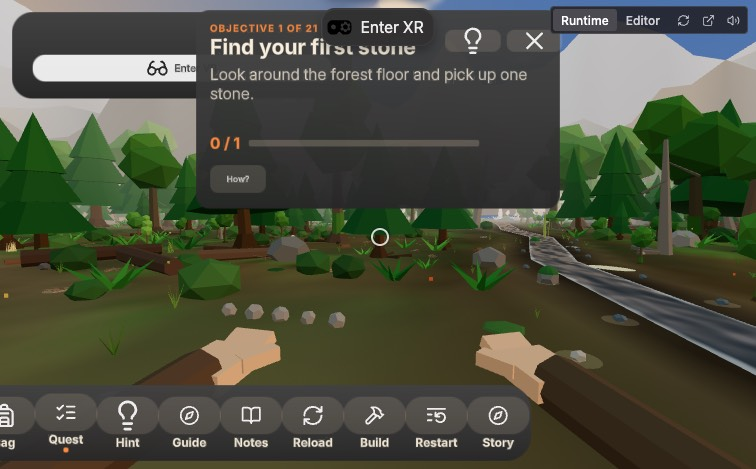
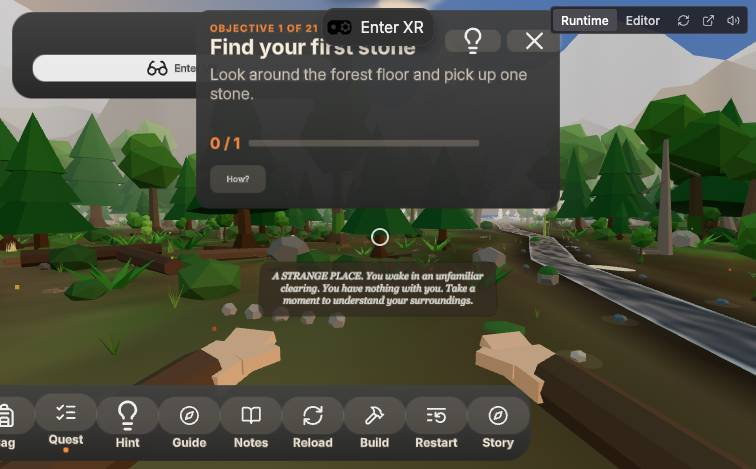
Story fixes: thoughts get their own readable head-following line (VR and desktop), the opening-to-survival hand-off no longer replays the awakening, camp marker ~2 m clear of the camp, mast glint readable by day, the First Fire act eases the clock towards dusk

diff --git a/src/systems/story-system.ts b/src/systems/story-system.ts
@@ -6,7 +6,8 @@
 // or unmutes thoughts (saved). Not used in the opening (it has its own story).
 
 import {
-  AdditiveBlending,
+  NormalBlending,
+  PlaneGeometry,
   BackSide,
   CanvasTexture,
   CylinderGeometry,
@@ -26,6 +27,8 @@ import {
 import { ACTS, CLUES, MAST_TOP, type StoryEvent } from '../game/story.js';
 import { mulberry32 } from '../game/rng.js';
 import { groundHeight } from '../game/world-layout.js';
+import { START_HOUR } from '../game/environment.js';
+import { hasCarry } from '../game/tutorial-mode.js';
 import { getGame, getUi } from './shared.js';
 
 const POLL_SECONDS = 0.25;
@@ -37,12 +40,25 @@ const FADE_SECONDS = 3.5;
 const GUIDANCE_HOLD = 3;
 /** More waiting lines than this and the older ones are dropped. */
 const MAX_WAITING = 4;
+/** How fast the story nudges the clock (hours per second): an hour in under a minute. */
+const CLOCK_RATE = 0.02;
+/** Thought line canvas (px) and distance ahead (m). */
+const LINE_W = 1024;
+const LINE_H = 240;
+const LINE_DIST = 1.1;
 
 export class StorySystem extends createSystem({}, { tutorial: { type: Types.Boolean, default: false } }) {
   private lines: string[] = [];
   private lineTimer = 0;
   private poll = 0;
   private fade: Mesh | null = null;
+  private line: Mesh | null = null;
+  private lineMat: MeshBasicMaterial | null = null;
+  private lineCtx: CanvasRenderingContext2D | null = null;
+  private lineTex: CanvasTexture | null = null;
+  private lineAlpha = 0;
+  private lineYaw = 0;
+  private lineDir = new Vector3();
   private fadeT = -1;
   private campMarker: Group | null = null;
   private glint: Sprite | null = null;
@@ -74,6 +90,7 @@ export class StorySystem extends createSystem({}, { tutorial: { type: Types.Bool
         }
       }),
     );
+    this.buildLine();
     this.buildClues();
     this.buildGlint();
   }
@@ -82,6 +99,8 @@ export class StorySystem extends createSystem({}, { tutorial: { type: Types.Bool
   awaken(): void {
     if (this.off) return;
     const game = getGame(this.world);
+    // Straight from the guided opening: it already told the awakening (TutorialSystem says the morning lines).
+    if (hasCarry()) game.story.markSeen('awake');
     if (game.story.seen.has('awake')) return;
     if (game.time < 5) this.startFade();
     game.story.wake();
@@ -95,9 +114,6 @@ export class StorySystem extends createSystem({}, { tutorial: { type: Types.Bool
       this.lineTimer = 0;
       if (!this.showingThought) return;
       this.showingThought = false;
-      this.speaking = true;
-      game.toast(' ', 'info');
-      this.speaking = false;
       game.log.add('story: thoughts skipped');
       return;
     }
@@ -125,13 +141,101 @@ export class StorySystem extends createSystem({}, { tutorial: { type: Types.Bool
     if (this.lineTimer > 0) this.lineTimer -= delta;
     else if (this.lines.length) {
       this.lineTimer = LINE_GAP;
-      this.speaking = true;
       this.showingThought = true;
-      game.toast(this.lines.shift()!, 'note');
-      this.speaking = false;
+      const text = this.lines.shift()!;
+      this.drawLine(text);
+      game.log.add(`thought: ${text}`);
     }
+    if (this.lineTimer <= 0) this.showingThought = false;
+    this.updateLine(delta);
+    this.updateClock(delta);
     this.updateFade(delta);
     this.updateGlint();
+  }
+
+  // ------------------------------------------------------------ the thought line (its own, always visible)
+
+  /** A small two-line text strip, a little below eye level ~1.3 m ahead; drawn only when the text changes. */
+  private buildLine(): void {
+    const c = document.createElement('canvas');
+    c.width = LINE_W;
+    c.height = LINE_H;
+    this.lineCtx = c.getContext('2d');
+    this.lineTex = new CanvasTexture(c);
+    this.lineMat = new MeshBasicMaterial({ map: this.lineTex, transparent: true, depthTest: false, depthWrite: false, opacity: 0 });
+    this.line = new Mesh(new PlaneGeometry(0.8, (0.8 * LINE_H) / LINE_W), this.lineMat);
+    this.line.renderOrder = 9000;
+    this.line.frustumCulled = false;
+    this.line.visible = false;
+    this.world.createTransformEntity(this.line);
+  }
+
+  private drawLine(text: string): void {
+    const ctx = this.lineCtx;
+    if (!ctx || !this.lineTex) return;
+    const W = LINE_W;
+    const H = LINE_H;
+    ctx.clearRect(0, 0, W, H);
+    ctx.fillStyle = 'rgba(14,11,8,0.8)';
+    ctx.beginPath();
+    ctx.roundRect(6, 6, W - 12, H - 12, 36);
+    ctx.fill();
+    ctx.fillStyle = '#f6ecda';
+    ctx.textAlign = 'center';
+    ctx.textBaseline = 'middle';
+    // Word-wrap to at most three lines, shrinking the type for a long act line.
+    let size = 50;
+    let rows: string[] = [];
+    for (; size >= 30; size -= 4) {
+      ctx.font = `italic ${size}px Georgia, "Times New Roman", serif`;
+      rows = [];
+      let cur = '';
+      for (const w of text.split(' ')) {
+        const t = cur ? `${cur} ${w}` : w;
+        if (ctx.measureText(t).width > W - 80 && cur) {
+          rows.push(cur);
+          cur = w;
+        } else cur = t;
+      }
+      rows.push(cur);
+      if (rows.length <= 3) break;
+    }
+    const lh = size * 1.22;
+    for (let r = 0; r < rows.length; r++) ctx.fillText(rows[r], W / 2, H / 2 + (r - (rows.length - 1) / 2) * lh);
+    this.lineTex.needsUpdate = true;
+  }
+
+  /** Follows the head lazily (it never sticks to the eyes), fades in and out. */
+  private updateLine(delta: number): void {
+    const line = this.line;
+    const mat = this.lineMat;
+    if (!line || !mat) return;
+    const target = this.showingThought ? 1 : 0;
+    this.lineAlpha += Math.sign(target - this.lineAlpha) * Math.min(Math.abs(target - this.lineAlpha), delta * 3);
+    mat.opacity = this.lineAlpha;
+    line.visible = this.lineAlpha > 0.01;
+    if (!line.visible) return;
+    this.camera.getWorldPosition(this.camPos);
+    this.camera.getWorldDirection(this.lineDir);
+    const yaw = Math.atan2(this.lineDir.x, this.lineDir.z);
+    let d = yaw - this.lineYaw;
+    d = Math.atan2(Math.sin(d), Math.cos(d));
+    // Snap on first show, then drift after the head.
+    this.lineYaw = this.lineAlpha < 0.05 ? yaw : this.lineYaw + d * Math.min(1, delta * 2.5);
+    line.position.set(this.camPos.x + Math.sin(this.lineYaw) * LINE_DIST, this.camPos.y - 0.27, this.camPos.z + Math.cos(this.lineYaw) * LINE_DIST);
+    line.rotation.set(-0.22, this.lineYaw + Math.PI, 0, 'YXZ');
+  }
+
+  // ------------------------------------------------------------ the evening (gradual, never a sudden night)
+
+  /** The First Fire act eases the clock towards dusk, the camp towards evening; only ever forwards. */
+  private updateClock(delta: number): void {
+    const game = getGame(this.world);
+    const s = game.story;
+    const target = s.seen.has('camp') ? 19 : s.seen.has('fireIntro') ? 17.5 : 0;
+    if (!target || game.env.day > 0) return;
+    const hour = START_HOUR + game.env.hourOffset + (game.time / game.env.dayLength) * 24;
+    if (hour < target) game.env.hourOffset += Math.min(target - hour, CLOCK_RATE * delta);
   }
 
   // ------------------------------------------------------------ awakening
@@ -253,10 +357,33 @@ export class StorySystem extends createSystem({}, { tutorial: { type: Types.Bool
     tie.position.set(0.0, 1.35, 0.03);
     g.add(tie);
     // Offset from the midpoint so it never sits inside the fire or the bench.
-    g.position.set(x + 1.2, y, z + 0.6);
+    g.position.set(x, y, z);
+    // Never inside the fire or the bench: step out from the midpoint, sideways to the fire-bench line.
+    this.offsetFromCamp(g, x, z);
+    g.position.y = groundHeight(g.position.x, g.position.z);
     this.campMarker = g;
     this.world.createTransformEntity(g);
     getGame(this.world).log.add(`story: camp marker at ${x.toFixed(1)},${z.toFixed(1)}`, 'ok');
+  }
+
+  /** 1.8 m out from the camp midpoint, at right angles to the fire-bench line, on the side nearer the player. */
+  private offsetFromCamp(g: Group, x: number, z: number): void {
+    const game = getGame(this.world);
+    const pit = game.structures.find((t) => t.kind === 'firePit' && t.complete);
+    let nx = 1;
+    let nz = 0;
+    if (pit) {
+      const dx = pit.x - x;
+      const dz = pit.z - z;
+      const l = Math.hypot(dx, dz) || 1;
+      nx = -dz / l;
+      nz = dx / l;
+    }
+    if ((game.player.x - x) * nx + (game.player.z - z) * nz < 0) {
+      nx = -nx;
+      nz = -nz;
+    }
+    g.position.set(x + nx * 1.8, 0, z + nz * 1.8);
   }
 
   // ------------------------------------------------------------ the mast glint (ruins teaser)
@@ -273,9 +400,9 @@ export class StorySystem extends createSystem({}, { tutorial: { type: Types.Bool
       ctx.fillStyle = grad;
       ctx.fillRect(0, 0, 64, 64);
     }
-    this.glintMat = new SpriteMaterial({ map: new CanvasTexture(c), blending: AdditiveBlending, transparent: true, depthWrite: false, opacity: 0 });
+    this.glintMat = new SpriteMaterial({ map: new CanvasTexture(c), blending: NormalBlending, transparent: true, depthWrite: false, opacity: 0 });
     this.glint = new Sprite(this.glintMat);
-    this.glint.scale.setScalar(1.6);
+    this.glint.scale.setScalar(2.6);
     this.glint.position.set(MAST_TOP.x, MAST_TOP.y, MAST_TOP.z);
     this.glint.visible = false;
     this.world.createTransformEntity(this.glint);
@@ -290,6 +417,8 @@ export class StorySystem extends createSystem({}, { tutorial: { type: Types.Bool
     if (!on) return;
     const night = getGame(this.world).env.night;
     const pulse = Math.max(0, Math.sin(this.t * 0.9)) ** 6;
-    this.glintMat.opacity = (0.25 + 0.75 * pulse) * (0.45 + 0.55 * night);
+    // By day a bright flash (a reflection) must read against the sky; by night a softer light.
+    this.glintMat.opacity = Math.min(1, (0.35 + 0.65 * pulse) * (0.85 + 0.15 * night));
+    this.glint.scale.setScalar(2.2 + 1.4 * pulse);
   }
 }

diff --git a/src/game/tutorial-mode.ts b/src/game/tutorial-mode.ts
@@ -100,6 +100,11 @@ export function saveCarry(carry: StoryCarry, store: KeyStore | null = browserSto
   safeSet(store, CARRY_KEY, JSON.stringify({ learned: carry.learned.filter((x) => typeof x === 'string') }));
 }
 
+/** Is a carry waiting (without taking it)? The awakening must not replay after the opening. */
+export function hasCarry(store: KeyStore | null = browserStore()): boolean {
+  return safeGet(store, CARRY_KEY) !== null;
+}
+
 /** Read and remove the carry (it applies once, to a fresh survival game). */
 export function takeCarry(store: KeyStore | null = browserStore()): StoryCarry | null {
   const raw = safeGet(store, CARRY_KEY);
